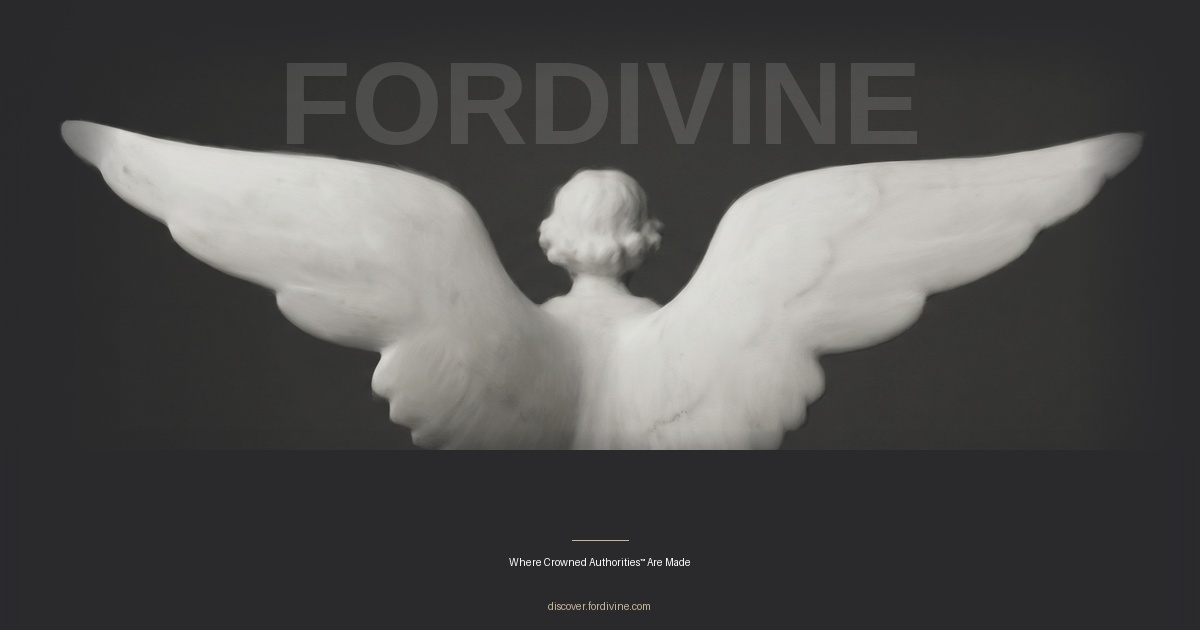
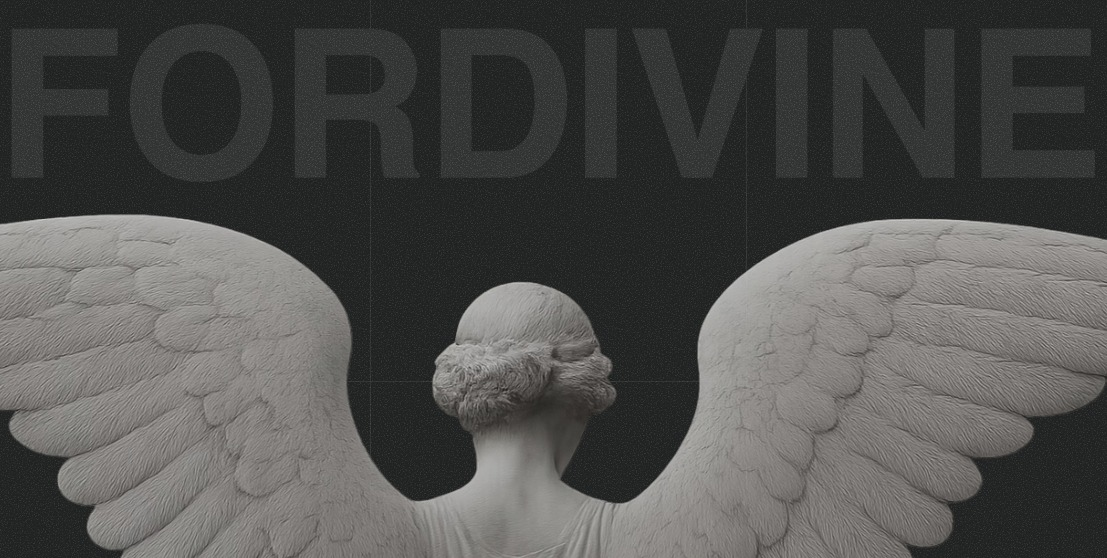
update: new OG image (angel wings) and corrected title/meta tags with Crowned Authorities™ placement

diff --git a/fordivine-upload-to-github/index.html b/fordivine-upload-to-github/index.html
@@ -22,7 +22,7 @@
 </script>
 <meta charset="UTF-8">
 <meta name="viewport" content="width=device-width, initial-scale=1.0">
-<title>FORDIVINE™ | Where Crowned Authorities Are Made</title>
+<title>FORDIVINE | Where Crowned Authorities™ Are Made</title>
 
 <!-- SEO -->
 <meta name="description" content="Your brand should be your hardest-working employee. FORDIVINE engineers Complete Brand Blueprints for women on a mission. Your brand attracts premium clients, commands authority, and drives revenue 24/7.">
@@ -33,15 +33,15 @@
 <!-- Open Graph / Social Sharing -->
 <meta property="og:type" content="website">
 <meta property="og:url" content="https://discover.fordivine.com">
-<meta property="og:title" content="FORDIVINE™ | Where Crowned Authorities Are Made">
+<meta property="og:title" content="FORDIVINE | Where Crowned Authorities™ Are Made">
 <meta property="og:description" content="Your brand should be your hardest-working employee. Right now, it's costing you money. FORDIVINE builds Crowned Authorities, not influencers.">
 <meta property="og:image" content="https://discover.fordivine.com/og-image.jpg">
-<meta property="og:image:width" content="1200">
-<meta property="og:image:height" content="630">
+<meta property="og:image:width" content="1107">
+<meta property="og:image:height" content="558">
 
 <!-- Twitter Card -->
 <meta name="twitter:card" content="summary_large_image">
-<meta name="twitter:title" content="FORDIVINE™ | Where Crowned Authorities Are Made">
+<meta name="twitter:title" content="FORDIVINE | Where Crowned Authorities™ Are Made">
 <meta name="twitter:description" content="Your brand should be your hardest-working employee. Right now, it's costing you money. FORDIVINE builds Crowned Authorities, not influencers.">
 <meta name="twitter:image" content="https://discover.fordivine.com/og-image.jpg">
 
